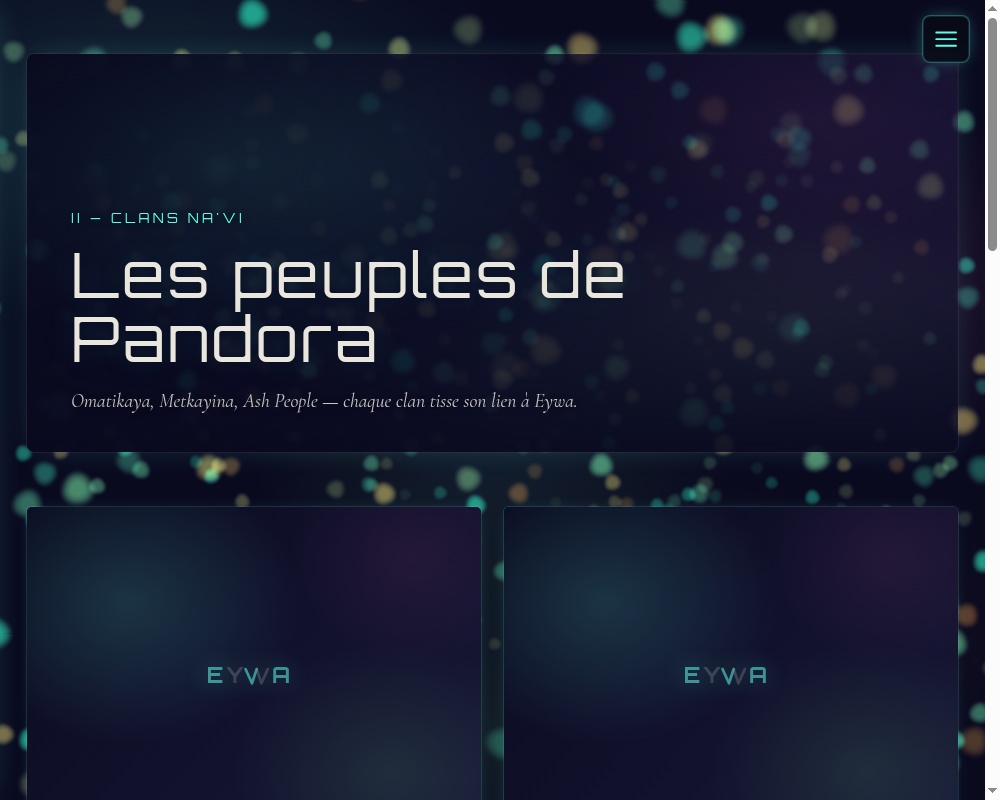
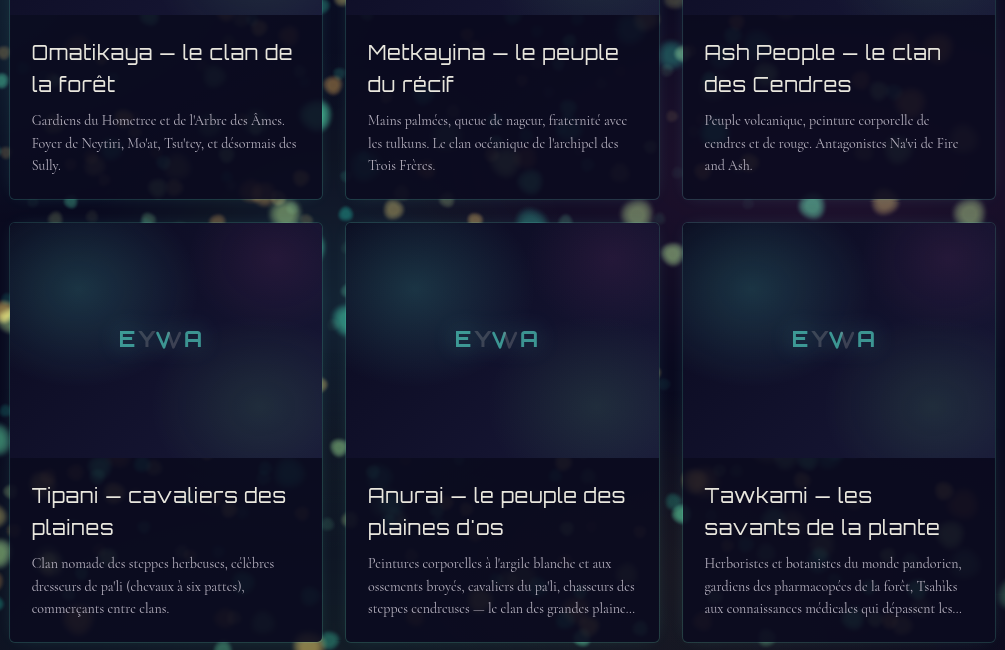
fix(L27): capture de la Nouveauté centrée sur des cartes avec titre et résumé

diff --git a/docs/nouveautes/2026-10-10-codex-le-texte-reste-lisible-au-dessus-des-particules.md b/docs/nouveautes/2026-10-10-codex-le-texte-reste-lisible-au-dessus-des-particules.md
@@ -3,7 +3,7 @@ title: "Codex : le texte reste lisible au-dessus des particules"
 date: 2026-10-10
 created: 2026-10-10T21:02+02:00
 lots: [L27]
-captures: [{ file: captures/L27-cartes-clans.png, alt: "La page Clans : les résumés des cartes se lisent sur un fond sombre, sans être traversés par les particules." }]
+captures: [{ file: captures/L27-cartes-clans.png, alt: "La page Clans : deux rangées de cartes, avec le titre et le résumé de chaque clan sur un fond sombre uni, tandis que les particules lumineuses flottent autour des cartes, sans passer derrière les textes." }]
 ---
 Dans le codex, les particules lumineuses qui flottent en fond passaient parfois derrière le texte et le rendaient difficile à lire : les résumés sous les cartes, et le texte des fiches.
 
